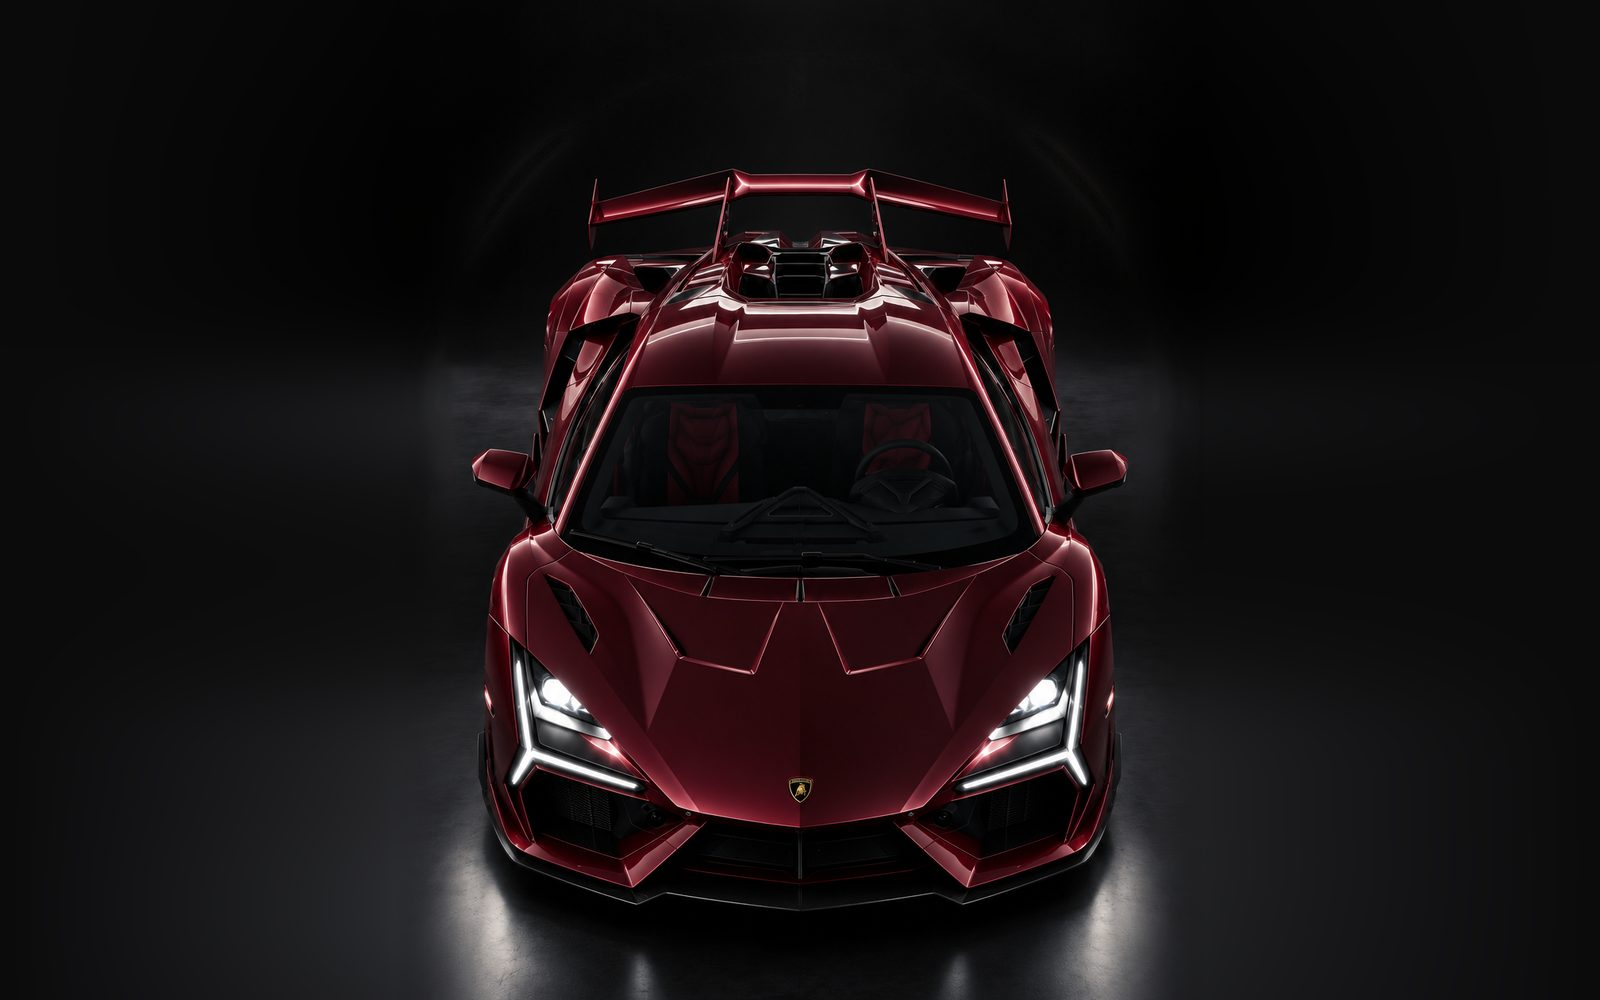
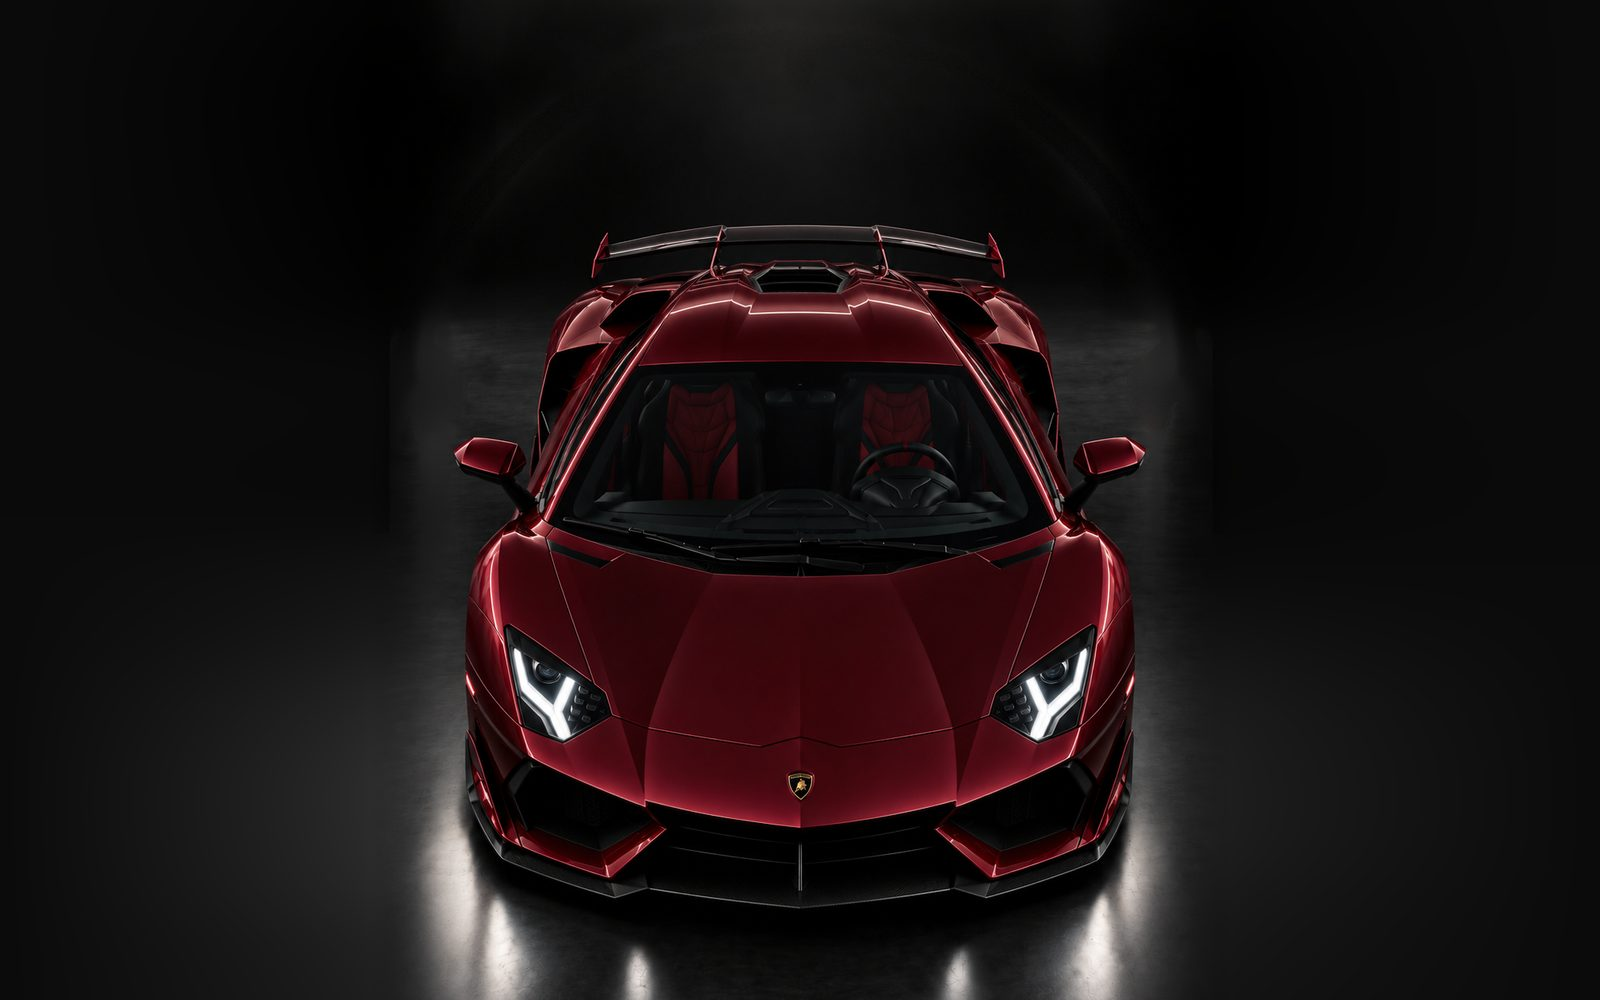
Beyond Factory: neon-halo render of the burgundy Lamborghini
Ring re-fitted (centre 539,568, r 494) and retouched out, the animated
arc redrawn at that geometry; new 1.6:1 / 4:5 crops; Y-shaped LED off
patches and bloom/halo/spill re-measured for this car.

diff --git a/src/styles/index.css b/src/styles/index.css
@@ -1340,8 +1340,8 @@
   /* Frames sized for the supercar: the whole car, wing to splitter.
      Arc geometry = the photo's own (retouched-out) halo ring. */
   .philosophy__stage {
-    --arc-w: 0.936;
-    --arc-top: 0.053;
+    --arc-w: 0.98;
+    --arc-top: 0.035;
     position: relative;
     width: calc(100% + 2 * var(--gutter));
     max-width: 72rem;
@@ -1351,8 +1351,8 @@
 
   @media (min-width: 768px) {
     .philosophy__stage {
-      --arc-w: 0.468;
-      --arc-top: 0.053;
+      --arc-w: 0.49;
+      --arc-top: 0.035;
       --mask-x: 48%; /* the widened desktop frame: fade the added sides sooner */
       width: 100%;
       aspect-ratio: 1.6 / 1;
@@ -1381,7 +1381,7 @@
   /*
    * Headlight ignition layers, positioned in % of the stage, which has the
    * same aspect as each crop (4:5 phones, 1.6:1 md+). Measured from the
-   * original photo (1024×1536): lamps at x 138–334 / 682–880, y 856–1050.
+   * original photo (1086×1448): lamps at x 165–310 / 776–921, y 810–975.
    * Resting state = lights on (patches hidden), which is also the
    * reduced-motion state; GSAP plays the off → on ignition.
    */
@@ -1396,8 +1396,8 @@
     opacity: 0;
   }
 
-  .philosophy__led--l { left: 10.516%; top: 62.857%; width: 24.206%; height: 19.206%; }
-  .philosophy__led--r { left: 64.484%; top: 62.857%; width: 24.405%; height: 19.206%; }
+  .philosophy__led--l { left: 10.119%; top: 60%; width: 19.147%; height: 16.905%; }
+  .philosophy__led--r { left: 70.734%; top: 60%; width: 19.147%; height: 16.905%; }
 
   /* Each lamp patch in three bands (projector, LED upright, lower LED bar)
      so the lamp wakes top to bottom */
@@ -1452,22 +1452,22 @@
     --spill-w: 60%;
     aspect-ratio: 3.4;
     left: 50%;
-    top: 88.1%;
+    top: 77.8%;
     background: radial-gradient(closest-side, rgb(210 222 245 / 0.1), rgb(210 222 245 / 0.03) 60%, transparent);
   }
 
-  .philosophy__bloom--l, .philosophy__halo--l, .philosophy__spill--l { left: 22.62%; top: 72.46%; }
-  .philosophy__bloom--r, .philosophy__halo--r, .philosophy__spill--r { left: 76.69%; top: 72.46%; }
+  .philosophy__bloom--l, .philosophy__halo--l, .philosophy__spill--l { left: 19.69%; top: 68.45%; }
+  .philosophy__bloom--r, .philosophy__halo--r, .philosophy__spill--r { left: 80.31%; top: 68.45%; }
 
   @media (min-width: 768px) {
-    .philosophy__led--l { left: 30.258%; top: 62.857%; width: 12.103%; height: 19.206%; }
-    .philosophy__led--r { left: 57.242%; top: 62.857%; width: 12.202%; height: 19.206%; }
+    .philosophy__led--l { left: 30.06%; top: 60%; width: 9.573%; height: 16.905%; }
+    .philosophy__led--r { left: 60.367%; top: 60%; width: 9.573%; height: 16.905%; }
     .philosophy__bloom { --bloom-w: 9%; }
     .philosophy__halo { --halo-w: 17%; }
     .philosophy__spill { --spill-w: 22%; }
-    .philosophy__spill--front { --spill-w: 30%; top: 88.1%; }
-    .philosophy__bloom--l, .philosophy__halo--l, .philosophy__spill--l { left: 36.31%; top: 72.46%; }
-    .philosophy__bloom--r, .philosophy__halo--r, .philosophy__spill--r { left: 63.34%; top: 72.46%; }
+    .philosophy__spill--front { --spill-w: 30%; top: 77.8%; }
+    .philosophy__bloom--l, .philosophy__halo--l, .philosophy__spill--l { left: 34.85%; top: 68.45%; }
+    .philosophy__bloom--r, .philosophy__halo--r, .philosophy__spill--r { left: 65.15%; top: 68.45%; }
   }
 
   .philosophy__arc {

diff --git a/src/data/site.ts b/src/data/site.ts
@@ -101,8 +101,8 @@ export const site = {
 
   // Brand storytelling section (creative director, 2026-10-10; Alain Class
   // reference). Vehicle: the burgundy widebody supercar (creative director,
-  // 2026-10-12 studio-lights render; original in
-  // client-photos/philosophy/burgundy-supercar-studio.png). Its own baked-in halo
+  // 2026-10-12 neon-halo render; original in
+  // client-photos/philosophy/burgundy-lamborghini-neon-halo.png). Its own baked-in halo
   // ring was retouched out so the section's animated arc replaces it at the
   // same geometry. Crops: desktop 1.6:1, mobile 4:5, whole car wing-to-splitter.
   philosophy: {
@@ -115,7 +115,7 @@ export const site = {
       url: null as string | null,
     },
     image: {
-      alt: 'Burgundy widebody Lamborghini with a tall rear wing, seen from above and in front under studio lights',
+      alt: 'Burgundy Lamborghini with a carbon rear wing, seen from above and in front under a halo of light',
       desktop: { jpg: `${philosophy1600} 1600w, ${philosophy2016} 2016w`, webp: `${philosophy1600Webp} 1600w, ${philosophy2016Webp} 2016w`, src: philosophy1600, width: 1600, height: 1000 },
       mobile: { jpg: `${philosophyMobile800} 800w, ${philosophyMobile1008} 1008w`, webp: `${philosophyMobile800Webp} 800w, ${philosophyMobile1008Webp} 1008w`, width: 800, height: 1000 },
     },
